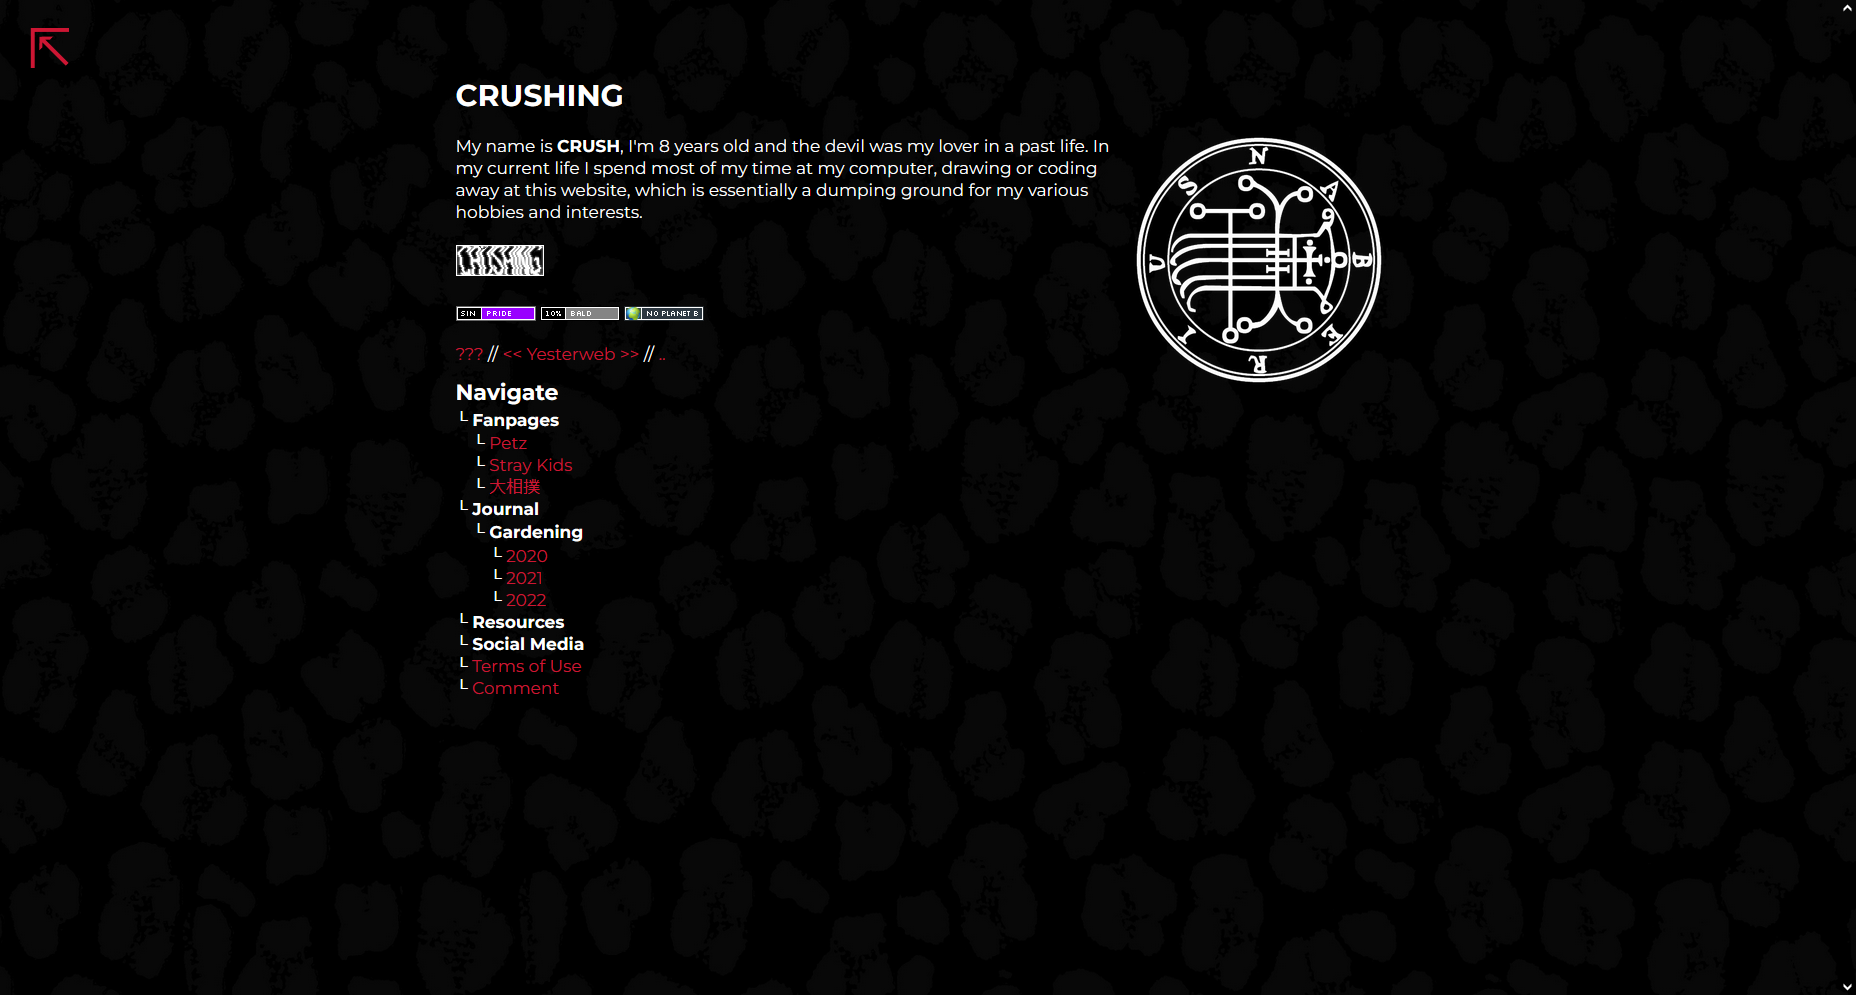
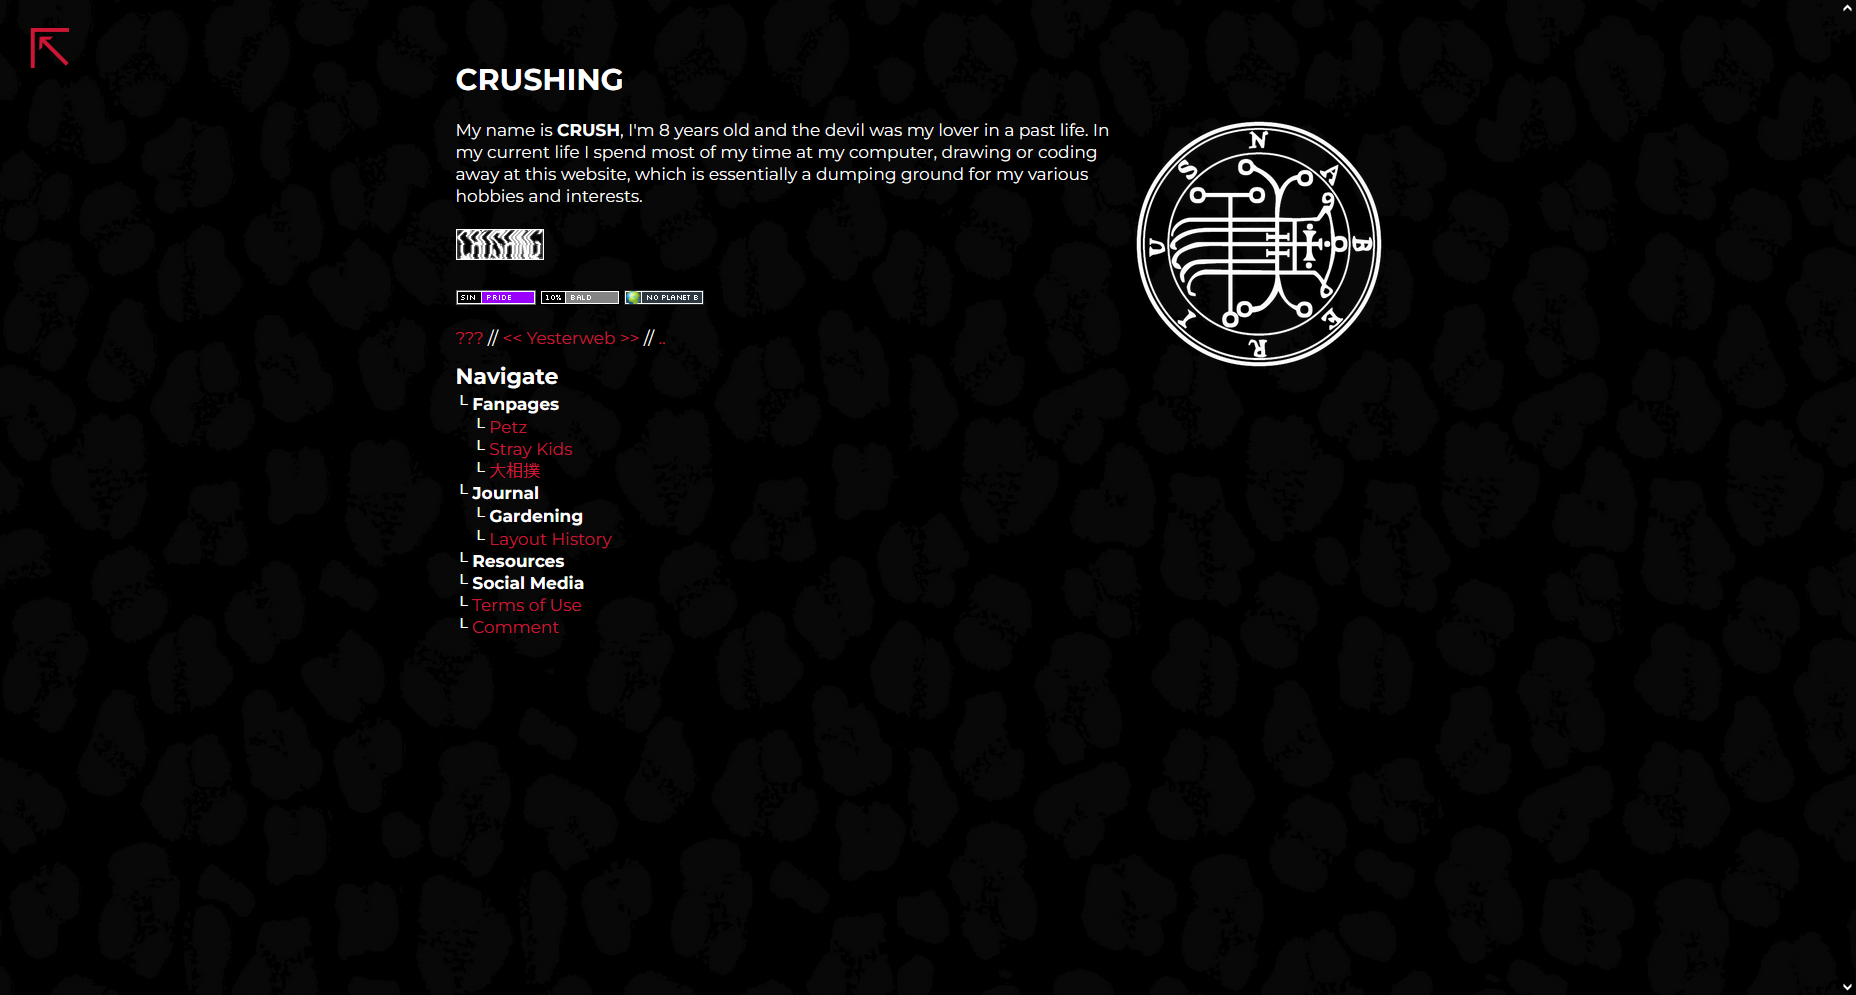
update

Changed region(s): [[0.2188, 0.0623, 0.75, 0.7166]]

diff --git a/hub.html b/hub.html
@@ -364,7 +364,7 @@ Any graphics, code snippets, templates, brushes, and other resources created by 
 
 <h2>V1 - CRUSHING PETZ Is Born</h2><br>
 
-CRUSHING began life as a Petz-only site hosted on Tumblr. I went with Tumblr at the time because I found using drafts and a private Discord server to host my images and downloads more convenient than whatever Neocities has going on.<br><br>
+CRUSHING began life as a Petz-only site hosted on Tumblr. I used Tumblr at the time because I found hosting my images and files with drafts and a private Discord server more convenient than whatever Neocities has going on.<br><br>
 
 I think this layout was edited from one of the templates on <a href="http://lilaclynx.net/layouts.html" target="_blank">The Lilac Lynx</a>, although heavily modified to the point that it doesn't resemble the original at all. I really owe everything to Kalium for both getting me into Petz and also kickstarting my web-making journey.<br><br>
 
@@ -372,27 +372,27 @@ I think this layout was edited from one of the templates on <a href="http://lila
 
 <h2>V2 - John Doe Saves The Day</h2><br>
 
-Version 2 didn't change much aside from the navigation. Navigation was a sticking point for me from the beginning because I didn't want to have to edit separate files for every individual page if they weren't going to have much content on them anyway. I was originally using JavaScript to make pages within a single HTML file, but this came with the caveat of not letting you link directly to any one page similar to iFrames.<br><br>
+Version 2 didn't change much aside from the navigation. Navigation was a sticking point for me in the beginning because I didn't want to have to edit separate HTML files for every single page if they weren't going to have much content on them anyway. I was originally using JavaScript to make pages within a single HTML file, but this came with the caveat of not letting you link directly to individual pages similar to iFrames.<br><br>
 
-I wasn't sure how to fix this until I found the <a href="https://john-doe.neocities.org/" target="_blank">John Doe template</a>, which solved basically all of my problems with some extremely simple CSS. I also decided to move the site to Neocities after the layout update.<br><br>
+I wasn't sure how to fix this until I found the <a href="https://john-doe.neocities.org/" target="_blank">John Doe template</a>, which solved basically all of my problems with some extremely simple CSS. I decided to move the site to Neocities after this update.<br><br>
 
-As a funny aside, my Tumblr ended up getting suspended in the process of moving because they apparently didn't like the redirect script I tried using lol.<br><br>
+As a funny aside, my Tumblr ended up getting suspended in the process of moving because they apparently didn't like the script I tried using to redirect to the new site lol.<br><br>
 
 	<a href="#layout-v2"><img src="assets/hub/journal/layouts/layout-v2.png" alt="" width="1856" height="995" loading="lazy"></a><br><br>
 
 <h2>V3 - Beautiful But Broken</h2><br>
 
-Version 3 was my first attempt at making a more complex layout from scratch. The first few iterations of the site were very bare-bones, which was fine by me since I value the content and usability of a site first and foremost, but now that my navigation issue was solved and I understood more about HTML I wanted to start experimenting with the visuals.<br><br>
+Version 3 was my first attempt at making a more complex layout from scratch. The first few iterations of the site were very bare-bones, which was fine by me since I value the content and usability of a site more than anything, but now that my navigation issue was solved and I understood more about HTML I wanted to start experimenting with the visuals.<br><br>
 
-The result wasn't anything too flashy but I was satisfied with it. It did however produce a new problem in that it wasn't mobile responsive like the earlier layouts since they came with that out of the box, and it turned out to be inconsistent even across larger screen sizes which especially annoyed me.<br><br>
+The result was nothing flashy but I was satisfied with it. It did however produce a new problem in that it wasn't mobile responsive like the earlier layouts since they came with that out of the box, and it turned out to be inconsistent even across larger screen sizes which especially annoyed me.<br><br>
 
 	<a href="#layout-v3"><img src="assets/hub/journal/layouts/layout-v3.png" alt="" width="1856" height="995" loading="lazy"></a><br><br>
 
 <h2>V4 (Current) - GitHub Is Awesome</h2><br>
 
-After finishing the V3 layout I expanded the site to cover topics other than Petz, but continued using the V2 layout for those pages since it was more important to me that they were accesible on mobile. So if you were thinking this looks eerily similar to V2, that's because it is actually the same, I just removed the navbar and restructured the navigation using dropdown menus. I eventually moved the Petz site onto this main layout as well after the poor responsiveness got to me.<br><br>
+After finishing the V3 layout I expanded the site to cover topics other than Petz, but continued using V2 for those pages since it was more important to me that they were accesible on mobile. So if you were thinking V4 looks eerily similar to V2 that's because it is actually the same, I just removed the navbar and restructured the navigation using the dropdown menus from the V3 layout. I eventually moved the Petz site onto this layout as well after the poor responsiveness got to me.<br><br>
 
-This is also when I discovered that <a href="https://pages.github.com/" target="_blank">GitHub Pages</a> are a thing. I only had to test it out for a few days before I decided that moving to GitHub was the right call. The Neocities editor gets overloaded easily with my single HTML file method and navigating the folder structure on there is a nightmare. They also won't host ZIPs or any of my weird Petz file types which is why I had to use Discord for most of my hosting needs. <a href="https://code.visualstudio.com/" target="_blank">VS Code</a> and <a href="https://desktop.github.com/" target="_blank">GitHub Desktop</a> just make it infinitely easier to push updates and keep everything organized in one place.<br><br>
+This is also when I discovered <a href="https://pages.github.com/" target="_blank">GitHub Pages</a> and <a href="https://code.visualstudio.com/" target="_blank">VS Code</a>. I only had to test it out for a few days before I decided that moving to GitHub was the right call. The Neocities editor gets overloaded easily with my single HTML file method and navigating the folder structure on there is a nightmare. They also won't host ZIPs which is why I had to use Discord for most of my file hosting needs. Using VS Code and <a href="https://desktop.github.com/" target="_blank">GitHub Desktop</a> to push updates is just a massive upgrade by comparison.<br><br>
 
 	<a href="#layout-v4-hub"><img src="assets/hub/journal/layouts/layout-v4-hub.png" alt="" width="1856" height="995" loading="lazy"></a><br>
 	<a href="#layout-v4-petz"><img src="assets/hub/journal/layouts/layout-v4-petz.png" alt="" width="1856" height="995" loading="lazy"></a><br>
